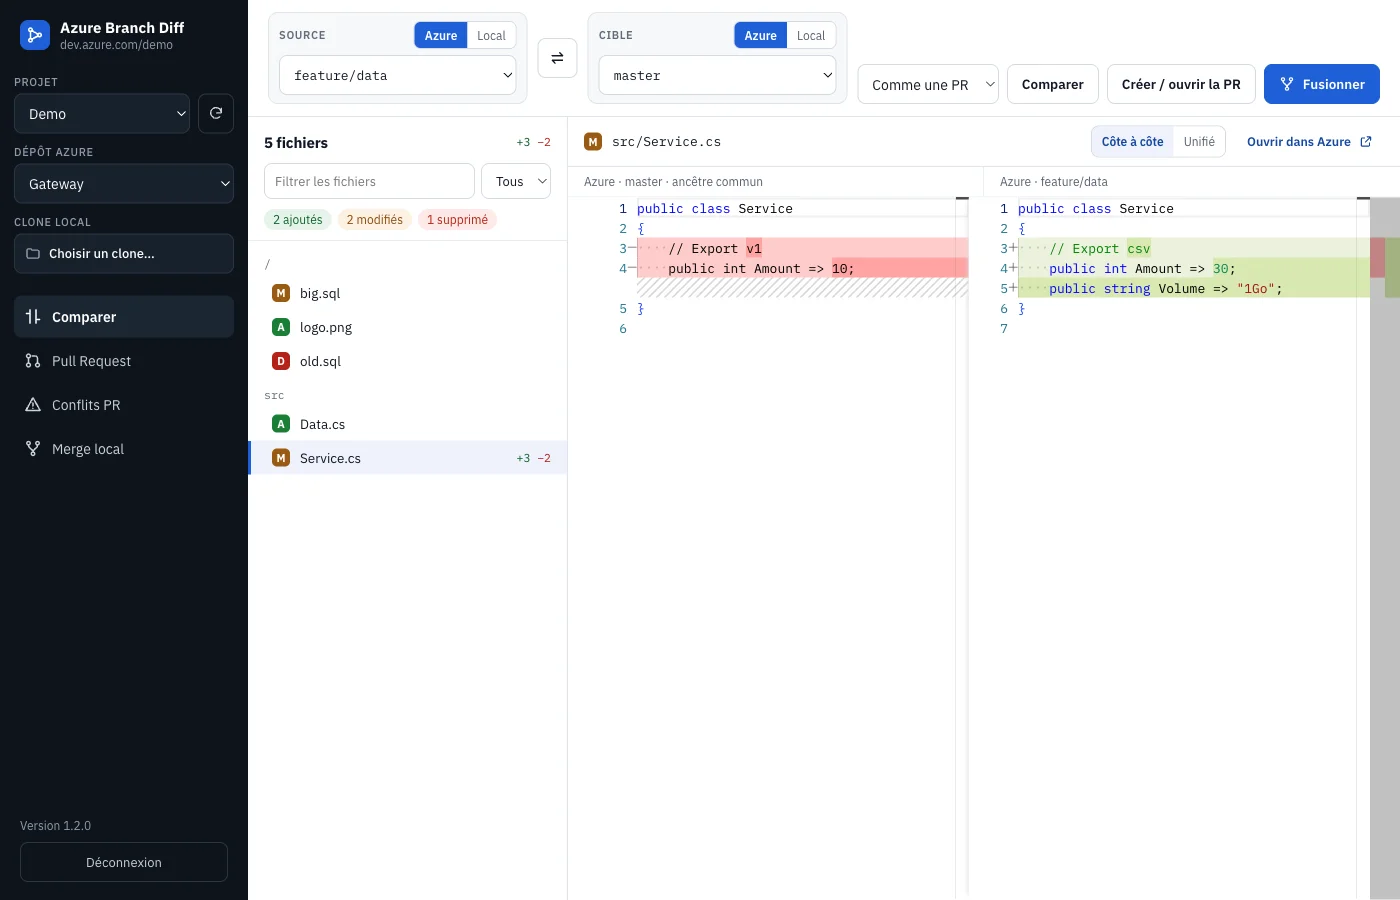
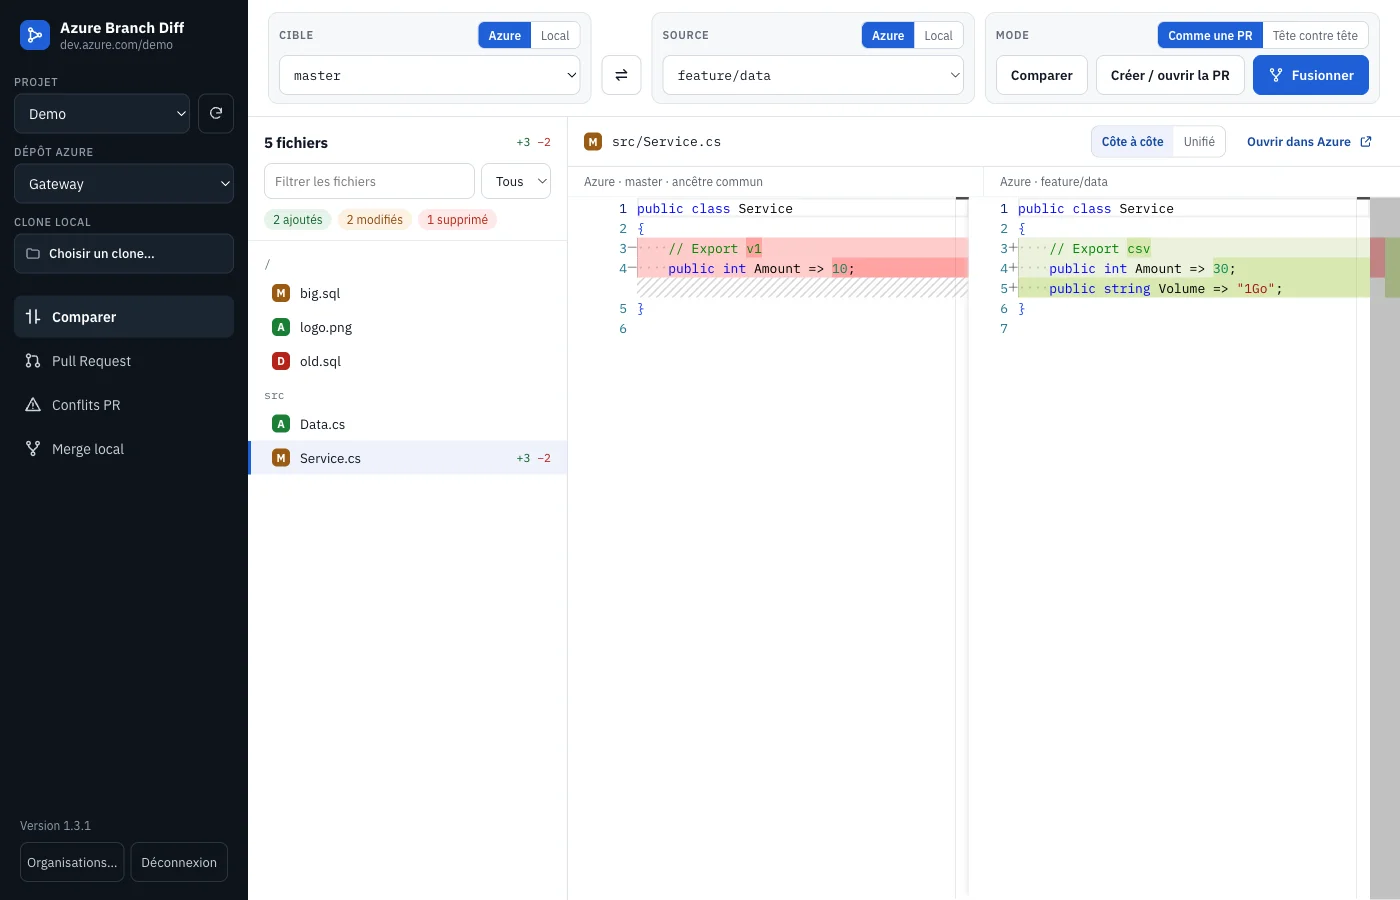
docs: README et page GitHub à jour (captures 1.3.1, organisations, ordre cible ← source)

diff --git a/site/index.html b/site/index.html
@@ -85,18 +85,19 @@
         </div>
         <p class="meta" id="meta">macOS (Apple Silicon et Intel) · Windows 64 bits · gratuit, open source (MIT)</p>
       </div>
-      <img class="shot" src="img/02-diff.webp" width="1400" height="900" alt="Diff côte à côte entre deux branches, avec la liste des fichiers modifiés" />
+      <img class="shot" src="img/02-diff.webp" width="1400" height="900" alt="Diff côte à côte : la cible à gauche, la source à droite, avec la liste des fichiers modifiés" />
     </div>
 
     <section id="fonctions">
       <h2>Ce que fait l'app</h2>
       <div class="grid">
-        <div class="card"><h3>Diff entre branches</h3><p>Comme une PR (depuis l'ancêtre commun) ou tête contre tête. L'éditeur de VS Code, côte à côte ou unifié, avec coloration C#, SQL, XML, JSON…</p></div>
-        <div class="card"><h3>Branche ↔ dossier local</h3><p>Vos modifications non commitées comparées à la branche distante. Respecte <code>.gitignore</code> et <code>core.autocrlf</code> : pas de faux positifs CRLF/LF.</p></div>
+        <div class="card"><h3>Diff entre branches</h3><p>Ce qui est à gauche s'affiche à gauche : la cible à gauche, la source à droite. Comme une PR (depuis l'ancêtre commun) ou tête contre tête, avec l'éditeur de VS Code.</p></div>
+        <div class="card"><h3>Azure ou local, de chaque côté</h3><p>Branche Azure, branche du clone, <code>origin/*</code>, copie de travail ou simple dossier téléchargé. Respecte <code>.gitignore</code> et <code>core.autocrlf</code>.</p></div>
         <div class="card"><h3>Pull Request en un clic</h3><p>Reprend la PR active si elle existe, lie les work items, attend le calcul du merge, puis complète (merge, squash, rebase).</p></div>
         <div class="card"><h3>Conflits : vous choisissez</h3><p>Réglez-les dans Azure, ou dans l'app : source, cible et résultat modifiable, « garder source / cible / les deux ».</p></div>
         <div class="card"><h3>Rapide sur les gros dépôts</h3><p>Aucun clone : seuls les fichiers modifiés sont téléchargés. Des milliers de fichiers modifiés restent fluides à parcourir et à filtrer.</p></div>
         <div class="card"><h3>Merge local, dans tous les sens</h3><p>Azure ou local, de chaque côté : merge dans un worktree temporaire, conflits réglés dans l'app, commit et push. Votre copie de travail reste intacte.</p></div>
+        <div class="card"><h3>Plusieurs organisations</h3><p>Un jeton par organisation ou un jeton multi-organisations : « Découvrir mes organisations », puis bascule d'un clic dans la barre latérale.</p></div>
         <div class="card"><h3>Mises à jour automatiques</h3><p>Sous Windows, la nouvelle version s'installe au redémarrage. Sous macOS, l'app vous prévient et télécharge le nouvel installeur.</p></div>
       </div>
     </section>
@@ -104,10 +105,11 @@
     <section>
       <h2>Aperçu</h2>
       <div class="gallery">
-        <figure><img class="shot" src="img/06-local.webp" width="1400" height="900" loading="lazy" alt="Comparaison d'un dossier local avec une branche Azure" /><figcaption>Dossier local comparé à la branche cible.</figcaption></figure>
+        <figure><img class="shot" src="img/06-local.webp" width="1400" height="900" loading="lazy" alt="Comparaison d'un dossier local avec une branche Azure" /><figcaption>Branche Azure (cible) ← dossier local (source).</figcaption></figure>
         <figure><img class="shot" src="img/04-conflicts.webp" width="1400" height="900" loading="lazy" alt="Liste des conflits d'une Pull Request" /><figcaption>Conflits de la PR : Azure ou l'app, au choix.</figcaption></figure>
-        <figure><img class="shot" src="img/05-resolver.webp" width="1400" height="900" loading="lazy" alt="Éditeur de résolution de conflit à trois volets" /><figcaption>Résolution : source, cible, résultat modifiable.</figcaption></figure>
+        <figure><img class="shot" src="img/05-resolver.webp" width="1400" height="900" loading="lazy" alt="Éditeur de résolution de conflit à trois volets" /><figcaption>Résolution : cible, source, résultat modifiable.</figcaption></figure>
         <figure><img class="shot" src="img/07-merge.webp" width="1400" height="900" loading="lazy" alt="Merge local : conflits résolus, message de commit" /><figcaption>Merge local : conflits, commit, push.</figcaption></figure>
+        <figure><img class="shot" src="img/08-orgs.webp" width="1400" height="900" loading="lazy" alt="Écran de connexion avec plusieurs organisations enregistrées" /><figcaption>Plusieurs organisations, un ou plusieurs jetons.</figcaption></figure>
       </div>
     </section>
 

diff --git a/README.md b/README.md
@@ -1,17 +1,18 @@
 # Azure Branch Diff
 
 [![CI](https://github.com/khalilbenaz/azure-branch-diff/actions/workflows/ci.yml/badge.svg)](https://github.com/khalilbenaz/azure-branch-diff/actions/workflows/ci.yml)
-[![Release](https://img.shields.io/github/v/release.noindex/khalilbenaz/azure-branch-diff)](https://github.com/khalilbenaz/azure-branch-diff/releases/latest)
+[![Release](https://img.shields.io/github/v/release/khalilbenaz/azure-branch-diff)](https://github.com/khalilbenaz/azure-branch-diff/releases/latest)
 
-Application de bureau (macOS et Windows) pour :
+Application de bureau (macOS et Windows) pour **comparer, fusionner et publier** des branches Azure DevOps — sans cloner, ou avec votre clone local.
 
-- **comparer** deux côtés, chacun **branche Azure** ou **référence d'un clone local** (branche, `origin/*`, copie de travail) : Azure ↔ Azure, Azure ↔ local, local ↔ local ; diff côte à côte (éditeur de VS Code) ;
-- **créer ou reprendre une Pull Request** quand la cible est Azure, puis **régler les conflits** dans Azure ou dans l'app et **compléter la PR** ;
-- **fusionner localement dans toutes les directions** : merge dans un worktree temporaire (votre copie de travail n'est pas touchée), conflits réglés dans l'app, commit, push.
+- **Comparer** deux côtés, chacun **branche Azure** ou **référence locale** (branche, `origin/*`, copie de travail, ou simple dossier téléchargé) : Azure ↔ Azure, Azure ↔ local, local ↔ local. Diff côte à côte avec l'éditeur de VS Code.
+- **Pull Request** : créer ou reprendre la PR, régler les conflits dans Azure ou dans l'app, compléter la PR.
+- **Merge local dans toutes les directions** : dans un worktree temporaire (votre copie de travail n'est jamais dans un état de merge), conflits réglés dans l'app, commit, push.
+- **Plusieurs organisations** : un jeton par organisation ou un jeton multi-organisations, bascule depuis la barre latérale.
 
 **Site et téléchargements : https://khalilbenaz.github.io/azure-branch-diff/**
 
-![Diff entre deux branches](site/img/02-diff.webp)
+![Diff entre deux branches : cible à gauche, source à droite](site/img/02-diff.webp)
 
 ## Installation
 
@@ -26,44 +27,60 @@ Les installeurs ne sont **pas signés par un certificat éditeur** :
 - **macOS** : glisser l'app dans Applications, puis au premier lancement **clic droit → Ouvrir**. Si macOS indique que l'app est endommagée : `xattr -dr com.apple.quarantine "/Applications/Azure Branch Diff.app"`.
 - **Windows** : SmartScreen → **Informations complémentaires → Exécuter quand même**.
 
-Pour la comparaison avec un dossier local, **git** doit être installé et dans le PATH (sinon le dossier est comparé fichier par fichier, sans `.gitignore` ni `core.autocrlf`).
+**git** est nécessaire pour les côtés locaux (clone) et le merge ; l'app le cherche aussi dans les emplacements Homebrew et Git pour Windows.
 
 ### Mises à jour
 
-L'app vérifie les nouvelles versions au démarrage puis toutes les 4 heures (Releases GitHub) :
+Vérification au démarrage puis toutes les 4 heures (Releases GitHub) :
 
-- **Windows** : la mise à jour est téléchargée en arrière-plan, puis installée au redémarrage ;
-- **macOS** : l'installation automatique exige une signature Apple Developer ID ; l'app affiche donc la nouvelle version et ouvre le téléchargement du `.dmg` en un clic.
+- **Windows** : téléchargement en arrière-plan, installation au redémarrage ;
+- **macOS** : l'installation automatique exige une signature Apple Developer ID ; l'app signale la nouvelle version et ouvre le téléchargement du `.dmg`.
 
 ## Connexion et organisations
 
+![Organisations enregistrées](site/img/08-orgs.webp)
+
 Azure DevOps → avatar → **Personal access tokens** → **New Token**, avec les droits **Code — Read & Write** et **Work Items — Read**.
 
-- **Un jeton par organisation**, ou **un jeton pour toutes les organisations accessibles** : dans ce cas « **Découvrir mes organisations** » les liste et vous cochez celles à ajouter.
+- **Un jeton par organisation**, ou **un jeton pour toutes les organisations accessibles** : « **Découvrir mes organisations** » les liste, vous cochez celles à ajouter.
 - Ajouter une organisation : nouveau PAT (nommé) ou **jeton déjà enregistré**.
 - Une fois connecté, le sélecteur **Organisation** de la barre latérale bascule de l'une à l'autre (le clone local est gardé). **Déconnexion** ramène à la liste sans rien oublier ; **Retirer** oublie une organisation (et son jeton s'il ne sert plus).
 
-Les jetons sont chiffrés par le trousseau du système (Keychain macOS, DPAPI Windows), jamais écrits en clair ni transmis à l'interface.
+Les jetons sont chiffrés par le trousseau du système (Keychain, DPAPI), jamais écrits en clair ni transmis à l'interface.
 
 ## Utilisation
 
-Dans la barre latérale : le **dépôt Azure** et/ou le **clone local** (choisi à sa racine). Un **dossier sans git** (archive téléchargée, export) est accepté aussi : il se compare à une branche Azure, à une branche d'un clone ou à un autre dossier ; seul le merge exige un vrai clone. Dans la barre d'outils, pour la **Source** et la **Cible** : `Azure` ou `Local`, puis la branche.
+**Barre latérale** : le **dépôt Azure** et/ou le **clone local** (choisi à sa racine ; un dossier sans git, comme une archive téléchargée, est accepté pour comparer).
 
-| Source → Cible | Comparer | PR Azure | Fusionner (merge local) |
+**Barre d'outils** : trois cartes, dans le même ordre que le diff — ce qui est à gauche s'affiche à gauche :
+
+| Cible (gauche) | ⇄ | Source (droite) | Mode et actions |
 |---|---|---|---|
-| Azure → Azure | ✓ | ✓ | merge dans un worktree, puis push vers la cible |
-| Local → Azure | ✓ (dernières versions) | ✓ (la branche locale est d'abord poussée) | merge dans un worktree sur `origin/cible`, puis push |
-| Azure → Local | ✓ (dernières versions) | — | merge de `origin/source` dans la branche locale, push optionnel |
-| Local → Local | ✓ | — | merge, commit, push optionnel |
+| `Azure` ou `Local`, puis la branche | inverse | `Azure` ou `Local`, puis la branche | **Comme une PR** (depuis l'ancêtre commun) ou **Tête contre tête** ; **Comparer**, **Créer / ouvrir la PR**, **Fusionner** |
 
-Si Azure refuse le push (politique de branche), l'app propose **« Créer une PR à la place »** : le commit de merge part sur une branche `merge/…` et une PR est créée. Les hooks git ne sont pas exécutés et un dépôt dont la configuration locale exécuterait des commandes (filtres, pilotes de merge) est refusé.
+Dans le diff : à gauche la cible (avant), à droite la source (après) ; **vert** = ce que la source apporte, **rouge** = ce qu'elle retire.
 
-1. **Comparer** : choisir la source et la cible, puis « Comparer ».
-   - *Depuis l'ancêtre commun* (par défaut) : ce que la PR apporterait ; *Tête contre tête* : différence brute.
-   - Filtre par nom ou extension ; « Vue unifiée » / « Côte à côte ».
-   - Fichiers binaires, de plus de 2 Mo ou non UTF-8 : signalés, avec un lien vers Azure.
-2. **Pull Request** : la PR active est proposée si elle existe ; sinon titre, description, work items. L'app attend le calcul du merge, puis propose de **compléter** (merge commit, squash, rebase, semi-linéaire).
-3. **Conflits** : **Régler dans Azure** ou **Régler dans l'app** (fichiers texte modifiés des deux côtés) : source et cible en lecture, résultat modifiable, *Garder source / cible / les deux*.
+| Cible ← Source | Comparer | PR Azure | Fusionner (merge local) |
+|---|---|---|---|
+| Azure ← Azure | ✓ | ✓ | worktree, puis push vers la cible |
+| Azure ← Local | ✓ (dernières versions) | ✓ (la branche locale est d'abord poussée) | worktree sur `origin/cible`, puis push |
+| Local ← Azure | ✓ (dernières versions) | — | merge de `origin/source` dans la branche locale, push optionnel |
+| Local ← Local | ✓ | — | merge, commit, push optionnel |
+
+![Comparaison d'un dossier local avec une branche Azure](site/img/06-local.webp)
+
+### Conflits
+
+- **PR Azure** : onglet **Conflits PR** — « Régler dans Azure » ou « Régler dans l'app » (cible à gauche, source à droite, résultat modifiable, *Garder cible / source / les deux*).
+- **Merge local** : onglet **Merge local** — même éditeur, départ du fichier fusionné par git ; fichiers binaires, liens ou supprimés d'un côté : garder un côté ou supprimer. Puis **Valider le commit** et **Pousser**.
+
+![Merge local : conflits résolus, commit](site/img/07-merge.webp)
+
+Si Azure refuse le push (politique de branche), l'app propose **« Créer une PR à la place »**. Avant chaque push, une **confirmation native** indique le remote et la branche. Un commit de merge non poussé reste conservé dans `refs/abd/merges/`.
+
+## Sécurité
+
+Résumé (détails dans [SECURITY.md](SECURITY.md)) : jetons chiffrés et jamais exposés à l'interface ; Electron verrouillé (isolation, sandbox, CSP, fuses) ; seuls les dossiers choisis dans la boîte de dialogue sont lisibles ; git lancé sans shell, hooks / fsmonitor / signatures neutralisés, et dépôts dont la configuration exécuterait des commandes refusés selon l'opération (lecture, merge, réseau) — Git LFS et gestionnaires d'identifiants usuels acceptés.
 
 ## Développement
 
@@ -73,7 +90,7 @@ npm run dev              # mode développement
 AZ_FAKE=1 npm run dev    # démo : Azure simulé en mémoire (n'importe quel jeton)
 npm test                 # tests unitaires, sécurité, performance (Vitest)
 npm run typecheck
-npm run e2e              # build + E2E : parcours, sécurité Electron, accessibilité, performance (Playwright)
+npm run e2e              # build + E2E : parcours, merge, organisations, sécurité Electron, accessibilité, performance
 npm run dist:mac         # installeurs macOS (sur macOS)
 npm run dist:win         # installeur Windows
 ```
@@ -86,14 +103,15 @@ git push --follow-tags                          # la CI vérifie le tag, teste e
 gh release edit vX.Y.Z --draft=false            # après vérification du brouillon : publication (mises à jour)
 ```
 
-La CI publie la release en **brouillon** (invisible pour les mises à jour automatiques) avec `SHA256SUMS.txt`. Voir [SECURITY.md](SECURITY.md).
+La CI publie la release en **brouillon** (invisible pour les mises à jour automatiques) avec `SHA256SUMS.txt`.
 
 ### Architecture
 
-- `src/main` : processus principal Electron, seul à détenir le jeton.
-  - `azure/` : API Azure DevOps (navigation, diff, PR, conflits) et `fake.ts` (Azure en mémoire) ;
-  - `local/`, `compare/` : fichiers locaux et modèle de diff commun ;
-  - `ipc.ts` : API exposée à l'interface ; `auth.ts` : jeton chiffré ; `errors.ts` : erreurs normalisées (jeton masqué) ; `updater.ts` : mises à jour.
+- `src/main` : processus principal Electron, seul à détenir les jetons.
+  - `azure/` : API Azure DevOps (navigation, diff, PR, conflits, découverte des organisations) et `fake.ts` (Azure en mémoire) ;
+  - `local/` : clones et dossiers locaux (git sans shell, configuration neutralisée) ; `compare/` : les trois combinaisons de comparaison ;
+  - `merge/` : merge local (worktree, conflits, commit, push, contrôles de sécurité, nettoyage) ;
+  - `ipc.ts` : API exposée à l'interface (arguments validés) ; `auth.ts` : organisations et jetons chiffrés ; `updater.ts` : mises à jour.
 - `src/preload` : pont `window.api` / `window.updates` (isolation de contexte, sandbox).
 - `src/renderer` : interface React + Monaco.
 - `site/` : page GitHub Pages.
